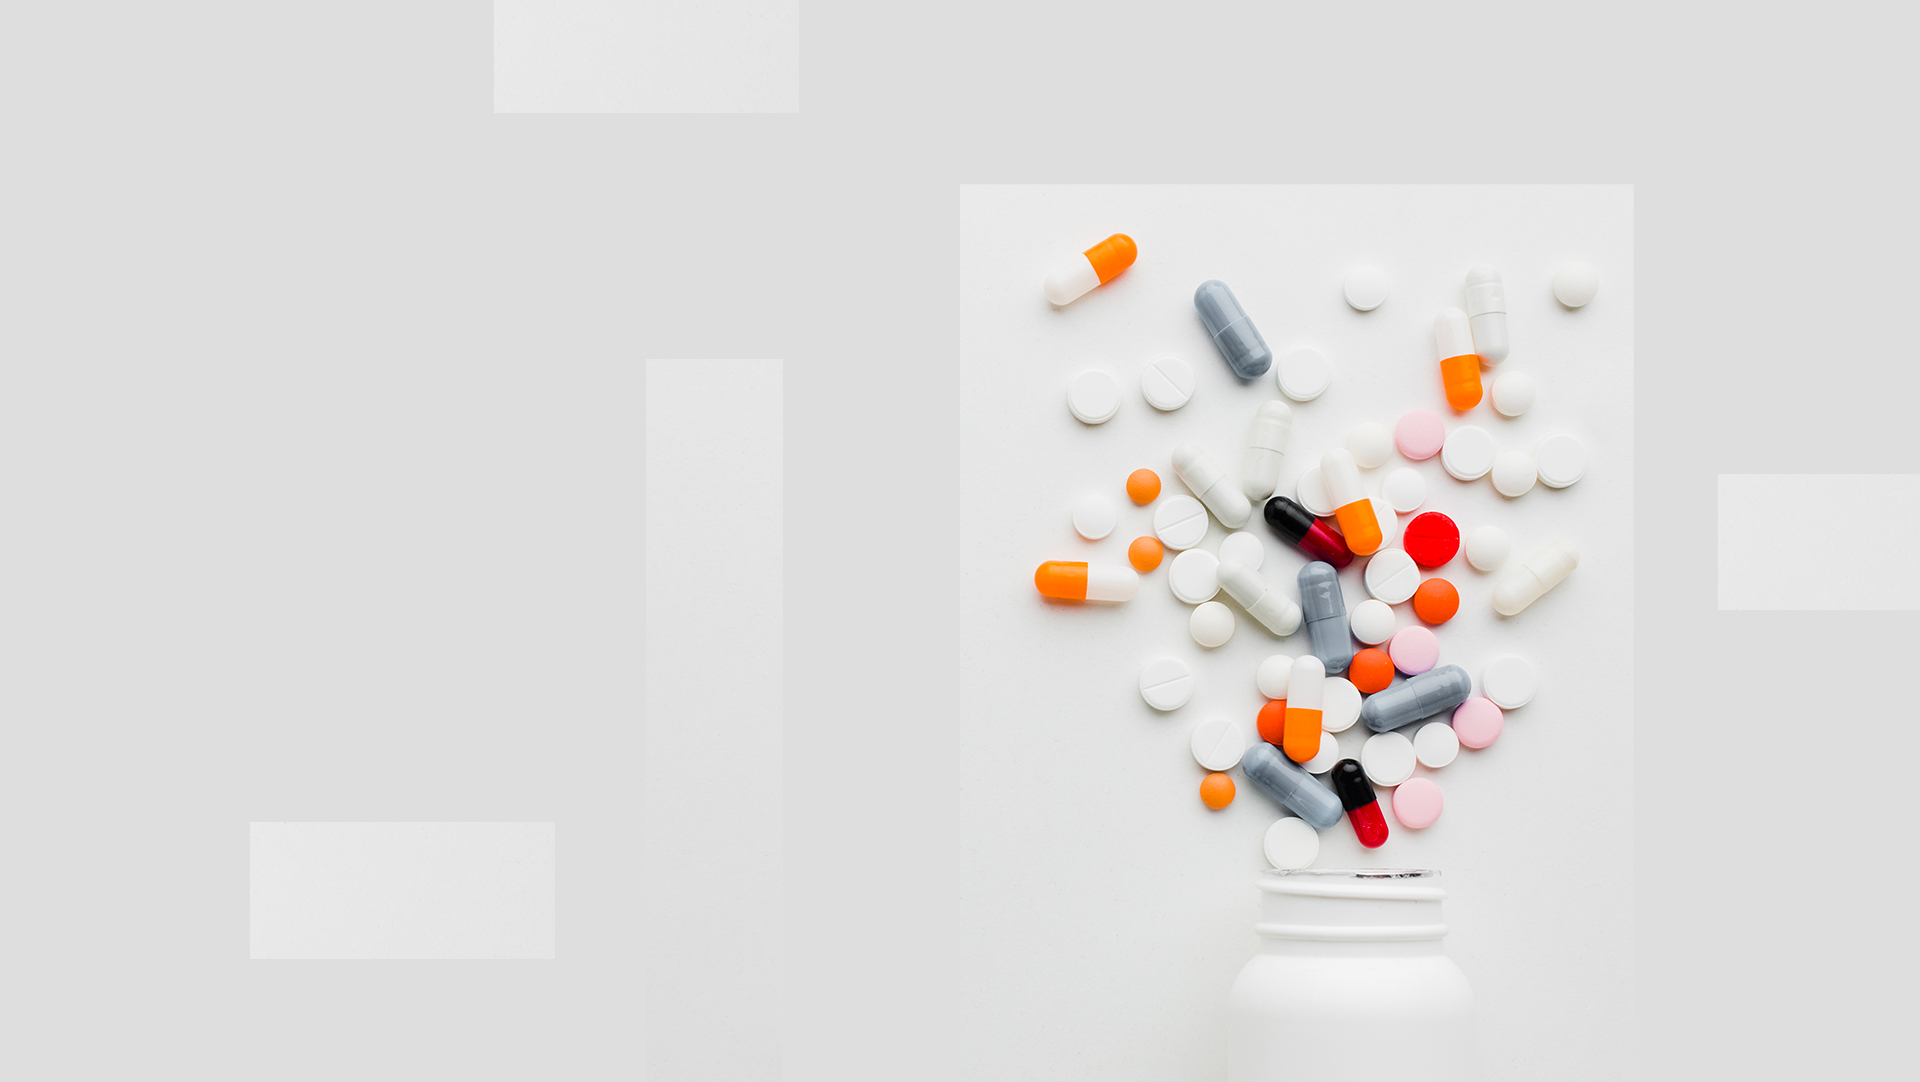
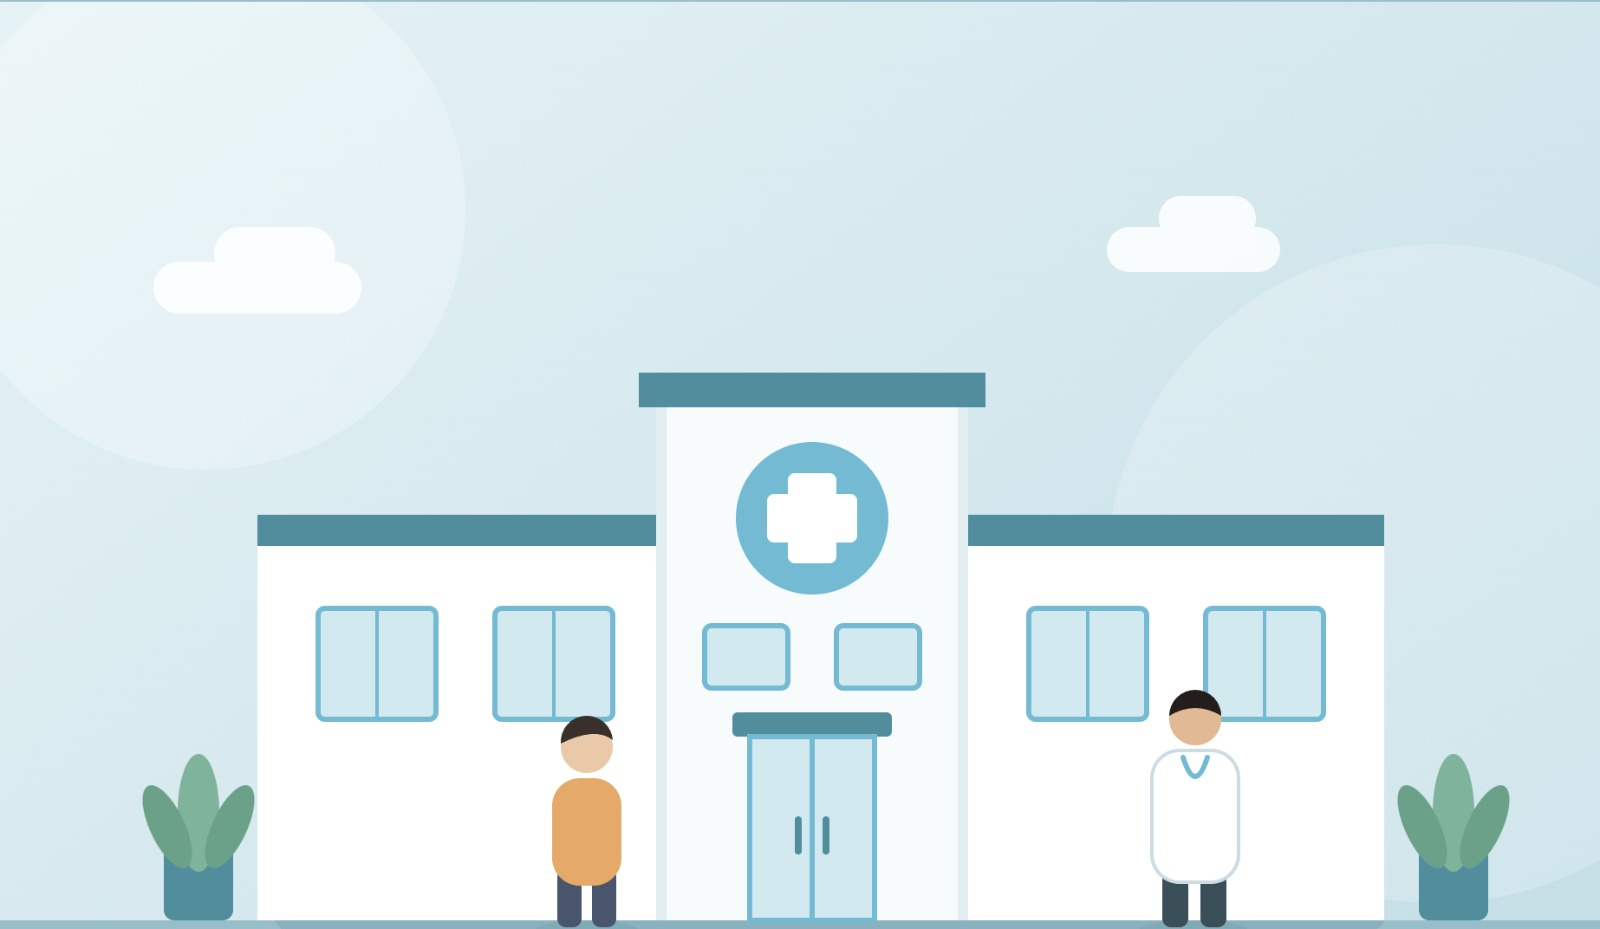
update

diff --git a/clinic/templates/landing.html b/clinic/templates/landing.html
@@ -1,7 +1,7 @@
-{% extends 'base.html' %}{% block content %}
-<section class="hero"><div><span class="eyebrow">PELAYANAN TERINTEGRASI, SEPENUH HATI</span><h1>Langkah kecil untuk<br><em>hidup lebih sehat.</em></h1><p>Perawatan yang Anda butuhkan, dengan proses yang lebih mudah. Buat janji, pantau antrean, dan akses rekam medis dalam satu tempat.</p><div class="actions"><a class="button" href="{{ url_for('web.booking') }}">Buat Janji Temu <span>â†—</span></a><a class="button secondary" href="{{ url_for('web.register') }}">Daftar Sekarang</a></div><div class="hero-proof"><span>âœ“ Dokter berpengalaman</span><span>âœ“ Pelayanan BPJS & Umum</span></div></div><div class="hero-visual"><span class="floating-tag">â™¡ Kesehatan Anda, prioritas kami</span><div class="hero-note"><span class="brand-icon">âœš</span><div><strong>Perawatan yang terhubung</strong><small>Dari pendaftaran hingga pemulihan</small></div></div></div></section>
-<section id="dokter"><div class="section-head"><div><span class="eyebrow">TEMUKAN DOKTER ANDA</span><h2>Kenali dokter, atur waktu Anda.</h2></div><span class="badge">Jadwal hari ini Â· {{ today }}</span></div><div class="grid two">{% for d in doctors %}<article class="card doctor-card"><div class="doctor-avatar">{{ 'MF' if loop.first else 'AF' }}</div><div><span class="eyebrow">{{ d.specialty }}</span><h3>{{ d.user.name }}</h3><p class="muted">Konsultasi {{ d.fee|rupiah }} Â· BPJS tersedia</p><div class="schedule-lines">{% for s in d.schedules %}<span>{{ ['Sen','Sel','Rab','Kam','Jum','Sab','Min'][s.weekday] }} <strong>{{ s.start }}â€“{{ s.end }}</strong></span>{% endfor %}</div>{% set available=availability[d.id]|selectattr('available')|list|length %}<p><span class="badge {{ 'warning' if not available }}">{{ available }} slot tersedia hari ini</span></p><a href="{{ url_for('web.booking',doctor_id=d.id) }}" class="button secondary">Pilih jadwal â†’</a></div></article>{% else %}<div class="card empty">Jadwal dokter belum tersedia.</div>{% endfor %}</div></section>
-<section id="layanan"><span class="eyebrow">LAYANAN KAMI</span><h2>Satu klinik, berbagai kebutuhan.</h2><div class="grid services">{% for icon,title,desc in [('âœš','Pemeriksaan umum','Konsultasi dan penanganan keluhan kesehatan Anda.'),('â™¡','Kesehatan wanita','Pelayanan kandungan dan kesehatan perempuan.'),('â—‰','Pemeriksaan awal','Pencatatan tanda vital sebelum bertemu dokter.'),('âŠž','Resep & farmasi','Resep terhubung langsung dengan layanan apotek.'),('âœ“','Layanan BPJS','Rincian pembiayaan transparan untuk setiap kunjungan.'),('â–¤','Rekam medis digital','Riwayat kesehatan pribadi yang mudah diakses.')] %}<article class="card"><span class="service-icon">{{ icon }}</span><h3>{{ title }}</h3><p class="muted">{{ desc }}</p></article>{% endfor %}</div></section>
+{% extends 'base.html' %}{% block content %}
+<section class="hero"><div><span class="eyebrow">PELAYANAN TERINTEGRASI, SEPENUH HATI</span><h1>Langkah kecil untuk<br><em>hidup lebih sehat.</em></h1><p>Perawatan yang Anda butuhkan, dengan proses yang lebih mudah. Buat janji, pantau antrean, dan akses rekam medis dalam satu tempat.</p><div class="actions"><a class="button" href="{{ url_for('web.booking') }}">Buat Janji Temu <span>&#8599;</span></a><a class="button secondary" href="{{ url_for('web.register') }}">Daftar Sekarang</a></div><div class="hero-proof"><span>&#10003; Dokter berpengalaman</span><span>&#10003; Pelayanan BPJS & Umum</span></div></div><div class="hero-visual"><span class="floating-tag">&#9825; Kesehatan Anda, prioritas kami</span><div class="hero-note"><span class="brand-icon">&#10010;</span><div><strong>Perawatan yang terhubung</strong><small>Dari pendaftaran hingga pemulihan</small></div></div></div></section>
+<section id="dokter"><div class="section-head"><div><span class="eyebrow">TEMUKAN DOKTER ANDA</span><h2>Kenali dokter, atur waktu Anda.</h2></div><span class="badge">Jadwal hari ini &#183; {{ today }}</span></div><div class="grid two">{% for d in doctors %}<article class="card doctor-card"><div class="doctor-avatar">{{ 'MF' if loop.first else 'AF' }}</div><div><span class="eyebrow">{{ d.specialty }}</span><h3>{{ d.user.name }}</h3><p class="muted">Konsultasi {{ d.fee|rupiah }} &#183; BPJS tersedia</p><div class="schedule-lines">{% for s in d.schedules %}<span>{{ ['Sen','Sel','Rab','Kam','Jum','Sab','Min'][s.weekday] }} <strong>{{ s.start }}&#8211;{{ s.end }}</strong></span>{% endfor %}</div>{% set available=availability[d.id]|selectattr('available')|list|length %}<p><span class="badge {{ 'warning' if not available }}">{{ available }} slot tersedia hari ini</span></p><a href="{{ url_for('web.booking',doctor_id=d.id) }}" class="button secondary">Pilih jadwal &#8594;</a></div></article>{% else %}<div class="card empty">Jadwal dokter belum tersedia.</div>{% endfor %}</div></section>
+<section id="layanan"><span class="eyebrow">LAYANAN KAMI</span><h2>Satu klinik, berbagai kebutuhan.</h2><div class="grid services">{% for icon,title,desc in [('&#10010;','Pemeriksaan umum','Konsultasi dan penanganan keluhan kesehatan Anda.'),('&#9825;','Kesehatan wanita','Pelayanan kandungan dan kesehatan perempuan.'),('&#9673;','Pemeriksaan awal','Pencatatan tanda vital sebelum bertemu dokter.'),('&#8862;','Resep & farmasi','Resep terhubung langsung dengan layanan apotek.'),('&#10003;','Layanan BPJS','Rincian pembiayaan transparan untuk setiap kunjungan.'),('&#9644;','Rekam medis digital','Riwayat kesehatan pribadi yang mudah diakses.')] %}<article class="card"><span class="service-icon">{{ icon|safe }}</span><h3>{{ title }}</h3><p class="muted">{{ desc }}</p></article>{% endfor %}</div></section>
 <section class="journey"><span class="eyebrow">ALUR PELAYANAN</span><h2>Lebih jelas di setiap langkah.</h2><div class="journey-steps">{% for step in ['Daftar','Verifikasi','Perawat','Dokter','Farmasi','Pembayaran','Selesai'] %}<div><span>{{ '%02d'|format(loop.index) }}</span><strong>{{ step }}</strong></div>{% endfor %}</div></section>
 <style>
   .landing-footer{position:relative;left:50%;width:100vw;max-width:100vw;margin:48px 0 0 -50vw;box-sizing:border-box;overflow:hidden;padding:48px 24px 24px;color:#475569;background-color:#f8fafc;background-image:radial-gradient(rgba(13,148,136,.08) .8px,transparent .8px),linear-gradient(180deg,#fff 0%,#f8fafc 100%);background-size:18px 18px,100% 100%;border-top:4px solid #14b8a6}
@@ -42,7 +42,7 @@
           <span aria-hidden="true" class="landing-footer-mark"><span class="landing-footer-plus">+</span></span>
           <span>MEDIKA HUSADA</span>
         </a>
-        <p class="landing-footer-description">Klinik Pratama Â· Kesehatan Anda, prioritas kami. Menyediakan pelayanan kesehatan terintegrasi dengan sepenuh hati.</p>
+        <p class="landing-footer-description">Klinik Pratama &#183; Kesehatan Anda, prioritas kami. Menyediakan pelayanan kesehatan terintegrasi dengan sepenuh hati.</p>
       </div>
       <div>
         <h2 class="landing-footer-heading">Tautan Cepat</h2>
@@ -64,7 +64,7 @@
       </div>
     </div>
     <div class="landing-footer-bottom">
-      <small>Â© 2026 Medika Husada - Klinik Pratama. All rights reserved.</small>
+      <small>&#169; 2026 Medika Husada - Klinik Pratama. All rights reserved.</small>
     </div>
   </div>
 </footer>

diff --git a/clinic/static/css/app.css b/clinic/static/css/app.css
@@ -306,7 +306,7 @@ footer small{font-weight:400;font-size:9px}
 .clinic-auth{position:relative;z-index:0;min-height:100vh;padding:35px 0}
 .clinic-auth.auth-main::before{background:var(--primary)}
 .clinic-auth.auth-main::before{width:520px}
-.clinic-auth.auth-main:after{width:calc(100% - 520px);background-position:center;background-size:cover}
+.clinic-auth.auth-main:after{width:calc(100% - 520px);background-image:url(../hospital/assets/images/ilustrasi-login-resepsionis.svg);background-color:#dcecf0;background-position:center;background-repeat:no-repeat;background-attachment:scroll;background-size:contain}
 .clinic-auth .auth-box{width:520px;margin-left:0;padding:0 65px}
 .clinic-auth .top{text-align:left;margin-bottom:22px}
 .auth-brand{display:flex;align-items:center;gap:10px;color:#fff;margin-bottom:7px}
